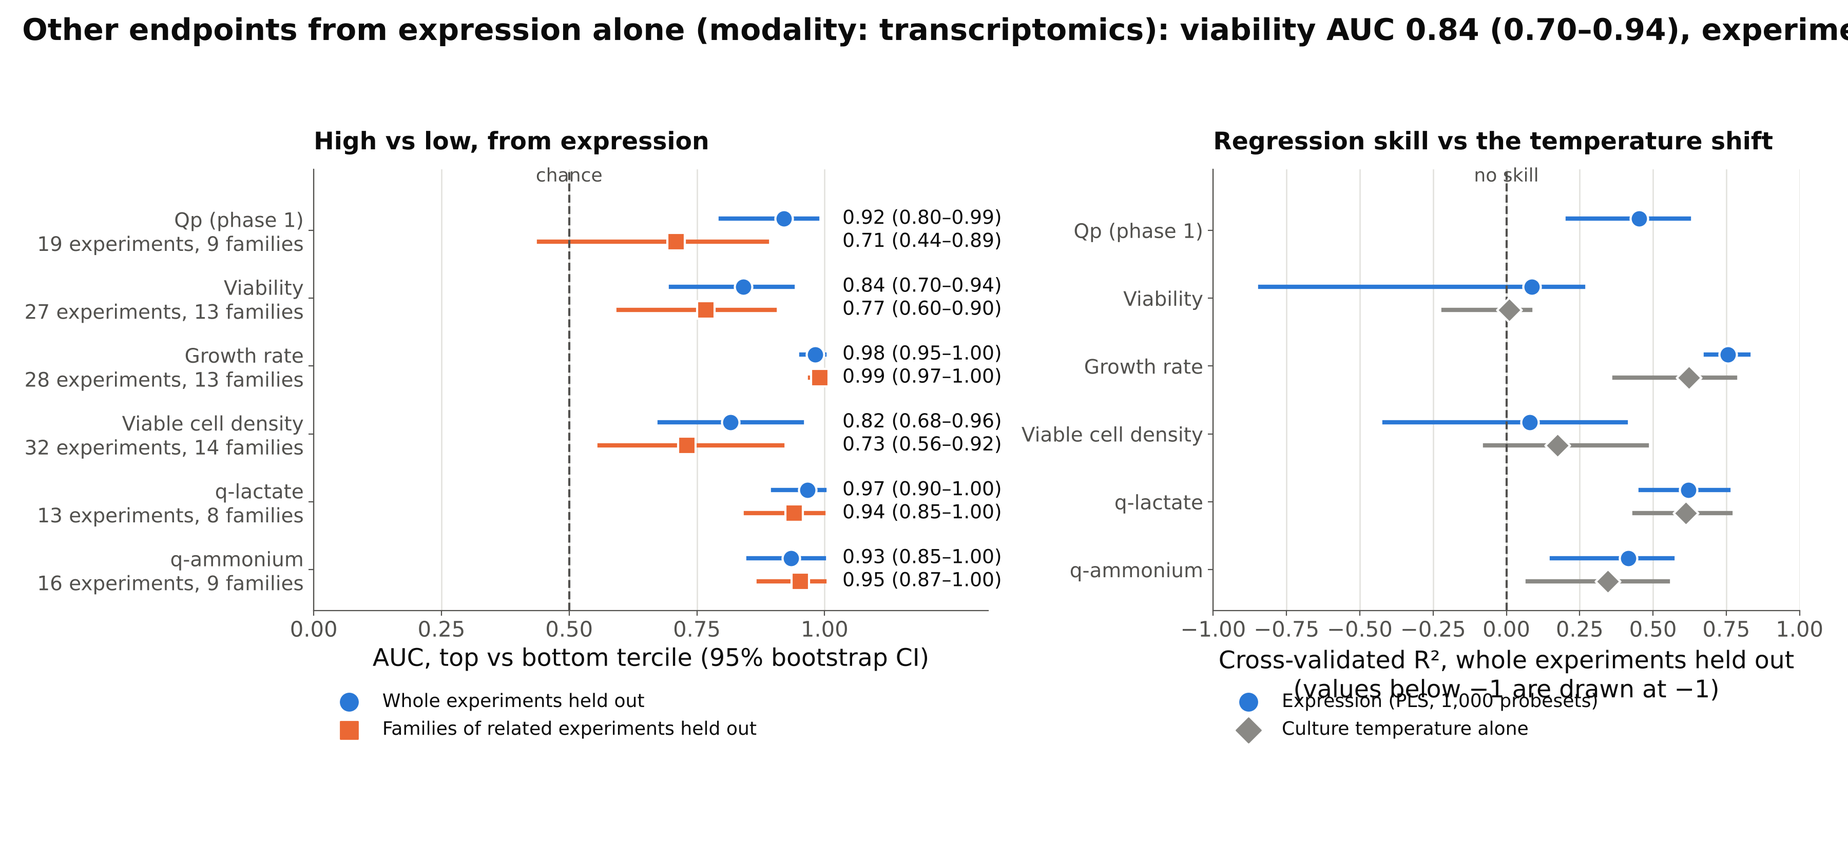
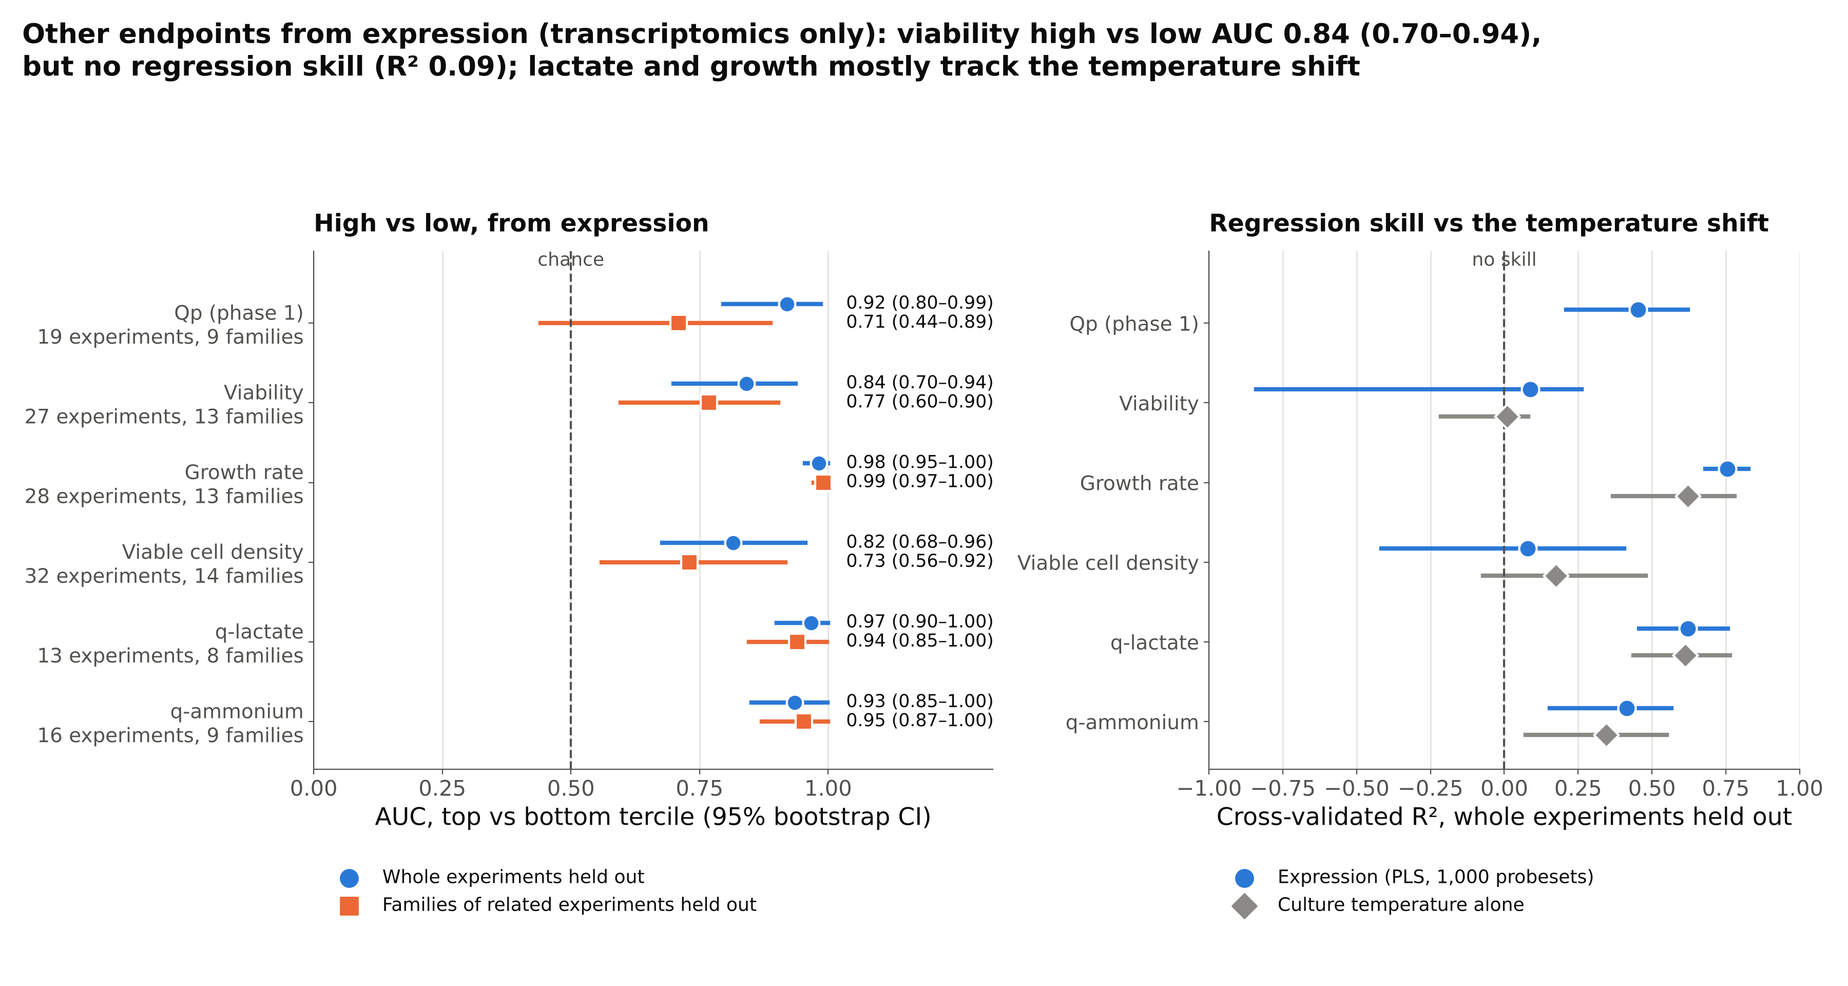
REPORT_V2 draft, run_v2 orchestrator, requirements
Claude-Session: https://claude.ai/code/session_01LY7Te5Uv5rJv5aH5gXDEKW

diff --git a/src/figures_v2.py b/src/figures_v2.py
@@ -131,7 +131,7 @@ def fig5():
     ax.set_xlim(0.25, 0.75)
     ax.invert_yaxis()
     ax.grid(axis="y", visible=False)
-    ax.set_xlabel("AUC for validated targets\n(grey: 95% range of random gene sets)")
+    ax.set_xlabel("AUC for validated targets\n(grey: 95% range, random sets)")
     ax.set_title("Recovery vs chance", fontsize=17)
     cov = e["route_a_coverage"]
     fig.suptitle(f"Knockout recovery is at chance: {k['hits_in_top_k']} of {k['n_positives']} testable validated targets in the top 100 "
@@ -150,7 +150,7 @@ def fig5():
 def fig6():
     m = pd.read_csv(R / "metrics_endpoints.csv")
     eps = ["Viability", "Growth rate", "Viable cell density", "q-lactate", "q-ammonium"]
-    fig, axes = plt.subplots(1, 2, figsize=(18, 8.4), gridspec_kw={"width_ratios": [1.15, 1]})
+    fig, axes = plt.subplots(1, 2, figsize=(18, 9.6), gridspec_kw={"width_ratios": [1.15, 1]})
     ax = axes[0]
     rows = [("Qp (phase 1)", _m1("full_classification", "all_labeled_terciles", "leave_one_experiment_out", "raw", "logit", "auc"),
              _m1("leakage", "all_labeled_terciles", "leave_one_expression_cluster_out", "raw", "logit", "auc"), 19, 9)]
@@ -159,13 +159,23 @@ def fig6():
         b = _ep(ep, "leave_one_expression_cluster_out", "raw", "logit", "auc")
         rows.append((ep, a[:3], b[:3], a[4], b[4]))
     y = np.arange(len(rows))
+    temp = {}
+    has_temp = ((m.encoder == "temperature only") & (m.model == "logit")).any()
+    if has_temp:
+        for ep in eps:
+            temp[ep] = _ep(ep, "leave_one_experiment_out", "temperature only", "logit", "auc")[:3]
     for i, (lab, a, b, na, nb) in enumerate(rows):
-        for (v, lo, hi), off, col, mk in [(a, -0.17, BLUE, "o"), (b, 0.17, ORANGE, "s")]:
+        marks = [(a, -0.24, BLUE, "o"), (b, 0.0, ORANGE, "s")]
+        if lab in temp:
+            marks.append((temp[lab], 0.24, NEUTRAL, "D"))
+        for (v, lo, hi), off, col, mk in marks:
             ax.plot([lo, hi], [i + off, i + off], color=col, lw=3, zorder=2)
-            ax.scatter([v], [i + off], s=150, color=col, marker=mk, edgecolor=SURFACE, linewidth=1.5, zorder=3)
-            ax.text(1.035, i + off, f"{v:.2f} ({lo:.2f}–{hi:.2f})", va="center", fontsize=13.5, color=INK)
+            ax.scatter([v], [i + off], s=130, color=col, marker=mk, edgecolor=SURFACE, linewidth=1.5, zorder=3)
+            ax.text(1.035, i + off, f"{v:.2f} ({lo:.2f}–{hi:.2f})", va="center", fontsize=12.5, color=INK)
     ax.scatter([], [], s=150, color=BLUE, marker="o", label="Whole experiments held out")
     ax.scatter([], [], s=150, color=ORANGE, marker="s", label="Families of related experiments held out")
+    if has_temp:
+        ax.scatter([], [], s=130, color=NEUTRAL, marker="D", label="Culture temperature alone, experiments held out")
     ax.axvline(0.5, color=INK2, ls="--", lw=1.5)
     ax.text(0.5, -0.72, "chance", ha="center", fontsize=13, color=INK2)
     ax.set_yticks(y)
@@ -177,7 +187,7 @@ def fig6():
     ax.grid(axis="y", visible=False)
     ax.set_xlabel("AUC, top vs bottom tercile (95% bootstrap CI)")
     ax.set_title("High vs low, from expression", fontsize=17)
-    ax.legend(loc="lower left", fontsize=13, bbox_to_anchor=(0.0, -0.33), ncol=1)
+    ax.legend(loc="upper left", fontsize=13, bbox_to_anchor=(0.0, -0.16), ncol=1)
 
     ax = axes[1]
     rows2 = []
@@ -203,13 +213,15 @@ def fig6():
     ax.set_ylim(-0.9, len(rows2) - 0.4)
     ax.invert_yaxis()
     ax.grid(axis="y", visible=False)
-    ax.set_xlabel("Cross-validated R², whole experiments held out\n(values below −1 are drawn at −1)")
+    ax.set_xlabel("Cross-validated R², whole experiments held out")
     ax.set_title("Regression skill vs the temperature shift", fontsize=17)
-    ax.legend(loc="lower left", fontsize=13, bbox_to_anchor=(0.0, -0.33))
+    ax.legend(loc="upper left", fontsize=13, bbox_to_anchor=(0.0, -0.16))
     v = _ep("Viability", "leave_one_experiment_out", "raw", "logit", "auc")
-    fig.suptitle(f"Other endpoints from expression alone (modality: transcriptomics): viability AUC {v[0]:.2f} "
-                 f"({v[1]:.2f}–{v[2]:.2f}), experiments held out", x=0.012, ha="left", fontweight="bold")
-    fig.tight_layout(rect=(0, 0.02, 1, 0.94))
+    vr = _ep("Viability", "leave_one_experiment_out", "raw", "pls", "r2_cv")
+    fig.suptitle(f"Other endpoints from expression (transcriptomics only): viability high vs low AUC {v[0]:.2f} "
+                 f"({v[1]:.2f}–{v[2]:.2f}),\nbut no regression skill (R² {vr[0]:.2f}); lactate and growth mostly track the temperature shift",
+                 x=0.012, ha="left", fontweight="bold", fontsize=19)
+    fig.tight_layout(rect=(0, 0.0, 1, 0.9))
     fig.savefig(F / "fig6_endpoints.png", dpi=200)
     plt.close(fig)
 

diff --git a/src/run_v2.py b/src/run_v2.py
@@ -1,0 +1,45 @@
+"""Phase 2, one command: python src/run_v2.py
+
+Needs the phase-1 downloads (python cho_poc.py --download) and phase-1 results
+(committed in results/). Stages, in order:
+  1. P1  Yao 2021 Table S3 pathway-recovery test            (src/yao.py)
+  2. P2  knockout rankings, then scoring against literature (src/knockout.py, src/knockout_eval.py)
+  3. P3  other endpoints on GSE30321                         (src/endpoints.py; ~20 min on 4 cores)
+  4. P4  cross-modality alignment                            (src/alignment.py)
+  5. P5  culture-format contrast                             (src/scale_format.py)
+  6. metrics_v2.csv and figures
+Fetches what it needs into raw/ (git-ignored).
+"""
+from __future__ import annotations
+
+import sys
+import time
+from pathlib import Path
+
+ROOT = Path(__file__).resolve().parent.parent
+sys.path.insert(0, str(ROOT))
+sys.path.insert(0, str(ROOT / "src"))
+
+
+def main(quick=False):
+    import alignment
+    import assemble_v2
+    import endpoints
+    import figures_v2
+    import knockout
+    import knockout_eval
+    import scale_format
+    import yao
+
+    for name, fn in [("P1 Yao pathway recovery", yao.main), ("P2 knockout freeze", knockout.freeze),
+                     ("P2 knockout evaluation", knockout_eval.main), ("P3 endpoints", lambda: endpoints.main(quick=quick)),
+                     ("P4 alignment", alignment.main), ("P5 culture format", scale_format.main),
+                     ("metrics_v2", assemble_v2.main), ("figures", figures_v2.make_all)]:
+        t = time.time()
+        print(f"=== {name}")
+        fn()
+        print(f"=== {name} done in {time.time() - t:.0f}s")
+
+
+if __name__ == "__main__":
+    main(quick="--quick" in sys.argv)

diff --git a/REPORT_V2.md b/REPORT_V2.md
@@ -1,0 +1,225 @@
+# Phase 2 — multi-modal extension and blinded recovery tests
+
+This extends `REPORT.md` (phase 1, Qp from transcriptomics on GSE30321). Every number here is in
+`results/metrics_v2.csv` or the file named beside it, and is regenerated by `python src/run_v2.py`.
+Intervals are 95% cluster-bootstrap intervals over the held-out unit unless stated otherwise.
+
+**Read `figures/fig0_architecture_status.png` first.** It is the architecture diagram with every box
+marked as tested with positive evidence, tested with a weak or null result, or requiring partner data.
+
+## Bottom line
+
+1. **No sample in any public dataset used here has more than one modality with an outcome.** Every
+   metric below belongs to one modality. Nothing in this work is a fused multi-omic prediction.
+2. **Two boxes have positive predictive evidence, both from transcriptomics with whole experiments
+   held out:** high vs low Qp (AUC 0.92, 0.80–0.99; phase 1) and high vs low viability
+   (AUC 0.84, 0.70–0.94).
+3. **The BMS metabolomics paper (Yao et al. 2021) published no per-clone data.** The cross-library
+   prediction could not be run. On the published summary statistics, the pre-registered pathway
+   ranking recovers the TCA cycle (rank 6 of 53, p = 0.02) but places alanine/aspartate/glutamate
+   metabolism only 15th; the joint test gives p = 0.06.
+4. **Knockout ranking recovers validated targets at chance** (AUC 0.50; 2 of 14 testable targets in
+   the top 100, p = 0.19). The FBA route is uninformative.
+5. **The pre-registered pathway-alignment test between transcripts and proteins is null**
+   (ρ = 0.16, p = 0.13). Genes do agree weakly across the two modalities (ρ = 0.18, p < 0.0001),
+   and pathway-level agreement appears in a sensitivity run without the temperature shift (ρ = 0.34).
+6. **Latent dynamics, glycans, scale risk and any fused prediction require partner data.**
+
+## What each box of the architecture can and cannot claim
+
+| Box | Status | Evidence (modality; holdout) | Requires partner data for |
+|---|---|---|---|
+| Transcriptomics input | Positive | High vs low Qp AUC 0.92 (0.80–0.99) (transcriptomics; whole experiments held out) | A modern genome-wide platform; this array has 3,592 probesets |
+| Proteomics input | Weak | Gene-level agreement with transcripts ρ = 0.18 on a growth-phase contrast (unpaired; no model) | Any outcome-labeled proteomics |
+| Metabolomics input | Weak | TCA cycle rank 6 of 53 on published correlations (metabolomics; no model) | Per-clone metabolite tables, both libraries |
+| Process settings | Weak | Four logged variables alone: RMSE 18.3 vs 14.6 no-skill (whole experiments held out) | Media, feed, clone, scale |
+| Pathway-constrained encoder | Weak | Fixed pathway average RMSE 12.6 vs 10.8 for raw genes; pathway alignment test null | A trained encoder on full-coverage data |
+| Culture state `z` | Weak | Self-supervised `z` no better than training from scratch (phase 1) | A larger unlabeled corpus; iMEMORY initialisation was not tested |
+| Δ branch | Weak | Golgi vesicle transport rank 5 of 48 (transcriptomics); TCA cycle rank 6 of 53 (metabolomics) | Per-sample data to run Δ on a learned `z` |
+| Latent dynamics | Not tested | — | Time-resolved omics with day labels |
+| Titer / qP head | Positive | AUC 0.92 (0.80–0.99); RMSE 10.8 vs 14.6 no-skill; published 4.44 not beaten | Unseen cell lines; families held out give AUC 0.71 (0.44–0.89) |
+| Viability head | Positive for high vs low only | AUC 0.84 (0.70–0.94); regression R² 0.09 | Finer prediction than high vs low |
+| Glycan head | Not tested | — | Glycan profiles with omics on the same clones |
+| Scale-risk head | Not tested | A format contrast only (flask vs bioreactor): hypoxia rank 17 of 50 | Paired small- and large-scale runs |
+| Ranked fixes | Null | Knockout recovery AUC 0.50 | Perturbation data from the partner's own lines |
+
+## P1. Metabolomics and qP on the BMS paper (Yao et al. 2021, *Metabolites* 11:823)
+
+**What is public.** The data availability statement reads "Not applicable". The supplement is one
+PDF. It holds Table S3 (Pearson correlation of each annotated metabolite with qP and with peak VCD
+across the 12 clones of library 1), the list of 34 targeted metabolites without values, and figures.
+There is no per-clone metabolite table for either library.
+
+**Cross-library prediction (library 1 → library 2): not run.** It needs per-clone values. The only
+per-clone values shown are scatter plots of the two metabolites the authors selected after their own
+analysis; a "prediction" from those would be circular. The heatmap has about two pixels per
+metabolite row and was not digitised. No data were fabricated or guessed.
+
+**Pathway recovery on Table S3 (pre-registered before computing; `figures/fig4_metabolomics_qp.png`).**
+92 metabolites, all mapped to KEGG; 53 KEGG metabolic pathways with at least three measured members.
+Statistic: mean Fisher-z correlation with qP inside the pathway minus outside it. Null: 10,000
+permutations of metabolite labels.
+
+| Target pathway | Rank of 53 (Δ statistic) | Permutation p | Rank by the authors' own over-representation statistic |
+|---|---|---|---|
+| Citrate cycle (TCA cycle) | 6 | 0.020 | 1 |
+| Alanine, aspartate and glutamate metabolism | 15 | 0.050 | 7 |
+| Both: mean rank 10.5 vs 27.2 expected | — | 0.061 | — |
+
+Ranks 1–5 went to pathways with three or four measured metabolites each (terpenoid backbone
+biosynthesis, butanoate metabolism, C5-branched dibasic acid metabolism, nicotinate metabolism,
+glutathione metabolism).
+
+**Reading.** The TCA cycle is recovered. Alanine/aspartate/glutamate metabolism is in the top third,
+not at the top, and the joint test does not reach 0.05. The ranking has little contrast to work
+with: 97% of the metabolites correlate positively with qP. This is a concordance check on the
+authors' own summary statistics, made by someone who had read their conclusion; it is not an
+independent discovery and not a prediction.
+
+A post hoc run restricted to pathways annotated in Chinese hamster gives ranks 6 and 13 of 38 and
+joint p = 0.10. It is not used to rescue the result.
+
+## P2. Knockout ranking with blinded literature recovery (`figures/fig5_knockout_recovery.png`)
+
+**Protocol.** Two rankings were built and committed (`de3fe41`) before any ground truth was opened.
+
+- *Route A, data-driven (transcriptomics, GSE30321):* gene-level Δ between the top and bottom Qp
+  quartiles, within experiment. Most negative Δ = knockout candidate; most positive = overexpression
+  candidate. 1,707 genes.
+- *Route B, mechanistic (iCHO1766, COBRApy FBA):* single-gene deletion for all 1,766 model genes;
+  growth and IgG-synthesis capacity relative to wild type.
+
+**Ground truth, collected afterwards.** Schulz et al. 2026 (*mAbs*; systematic review of 164
+publications), supplementary sheet B: 60 genes whose knockout or knockdown raised titer or qP, 153
+genes whose overexpression did. From Marzluf et al. 2026 only the genes named in the text could be
+used, because the 36 retained knockouts are not published by name.
+
+**Coverage.** 14 of the 60 validated knockout targets are on the array; 17 are in the model. BAX,
+BAK1, BOK, BCKDHA/B, COSMC, NEU1 and NEU3 are not on the array. BOK is in neither, so the named true
+negative could not be tested.
+
+| Test | Result | Chance | p |
+|---|---|---|---|
+| Route A, knockout end: AUC for 14 validated targets | 0.50 | 0.50 (null range 0.35–0.65) | 0.50 |
+| Route A, knockout end: validated targets in the top 100 | 2 (GLUL rank 29, DAG1 rank 30) | 0.8 | 0.19 |
+| Route A, overexpression end: AUC for 37 validated targets | 0.39 | 0.50 (0.40–0.59) | 0.99 |
+| Route A with the between-experiment Δ: validated targets in the top 100 | 0 | 0.8 | 1.00 |
+| Route B, trade-off score: AUC for 17 validated targets | 0.49 | 0.50 (0.49–0.55) | 1.00 |
+| Route B, tolerance call: validated targets called tolerated | 94% | 93% of all genes | — |
+
+Named genes that could be ranked by Route A: GLUL 29, DAG1 30, LDHA 182, NID1 192, B4GALT1 367,
+NEU2 856, FUT8 1,197, MYC 1,700 (of 1,707). With k = 50 the same two hits give p = 0.06.
+
+**Reading.** Recovery is at chance on both routes. With 14 testable positives the test could only
+have detected a strong effect, so this is no evidence of recovery, not proof that the approach
+cannot work. FBA calls GAPDH, ALDOA, PGK1 and LDHA knockouts harmless, where the Marzluf screen found
+them lethal or selected against; the model's isozyme rules absorb single deletions. One call matches
+known biology: deleting FUT8 removes the model's capacity to make its core-fucosylated IgG.
+
+## P3. Other endpoints on GSE30321 (`figures/fig6_endpoints.png`)
+
+Modality: transcriptomics. Pipeline unchanged from phase 1. PLS and logistic regression on 1,000
+probesets; top vs bottom tercile for AUC. "Temperature only" is a model given the culture
+temperature and nothing else, under the same split.
+
+| Endpoint | Arrays / experiments | AUC, experiments held out | AUC, families held out | R², experiments held out | R², temperature only |
+|---|---|---|---|---|---|
+| Viability | 235 / 28 | 0.84 (0.70–0.94) | 0.77 (0.60–0.90) | 0.09 (−0.84–0.26) | 0.01 |
+| Growth rate | 223 / 29 | 0.98 (0.95–1.00) | 0.99 (0.97–1.00) | 0.76 (0.68–0.83) | 0.62 |
+| Viable cell density | 270 / 33 | 0.82 (0.68–0.96) | 0.73 (0.56–0.92) | 0.08 (−0.42–0.41) | 0.17 |
+| q-lactate | 127 / 14 | 0.97 (0.90–1.00) | 0.94 (0.85–1.00) | 0.62 (0.46–0.76) | 0.61 |
+| q-ammonium | 143 / 16 | 0.93 (0.85–1.00) | 0.95 (0.87–1.00) | 0.42 (0.15–0.57) | 0.35 |
+
+TEMP_AUC_SENTENCE
+
+Culture-grouped numbers, for contrast only: viability R² 0.77, density 0.77, against 0.09 and 0.08
+with experiments held out. The leak found in phase 1 is larger for these endpoints than it was for Qp.
+
+**Reading.**
+
+- **Viability** can be separated into high and low from expression on unseen experiments, and the
+  culture temperature alone cannot do it. A number cannot be predicted: R² is 0.09.
+- **Growth rate and q-lactate** are predicted well, but temperature alone gets most of the way
+  (R² 0.62 and 0.61). Expression adds a little for growth rate and nothing for q-lactate.
+- **Viable cell density** behaves like viability: some high-vs-low separation, no regression skill.
+- The pathway encoder is at or below raw genes on every endpoint (`results/metrics_endpoints.csv`).
+
+## P4. Cross-modality alignment on a pathway basis (`figures/fig7_modality_alignment.png`)
+
+Design pre-registered in commit `83b8d9e`. Each contrast is computed inside one modality; the test
+is whether the pathway-level contrast vectors correlate.
+
+**Leg 1, growth phase: transcriptomics (GSE30321) vs proteomics (PRIDE PXD053511).** Proteomics:
+4 exponential vs 4 stationary samples, 4,207 proteins quantified, 87% mapped to a gene, 3,303 genes.
+Transcriptomics: within-experiment Δ for growth rate. 557 genes are measured in both.
+
+| Comparison | n | Spearman | p |
+|---|---|---|---|
+| **Pre-registered primary**, iCHO1766 subsystems | 18 | 0.20 | 0.24 |
+| **Pre-registered primary**, KEGG hamster pathways | 266 | 0.16 | 0.13 |
+| Gene level, no pathway basis | 557 | 0.18 | < 0.0001 |
+| Sensitivity (37 °C arrays only), iCHO1766 subsystems | 18 | 0.36 | 0.08 |
+| Sensitivity (37 °C arrays only), KEGG hamster pathways | 266 | 0.34 | < 0.0001 |
+
+**Leg 2, Qp association: transcriptomics vs metabolomics (Yao Table S3).** Spearman −0.12 over 10
+iCHO1766 subsystems (p = 0.63) and −0.08 over 40 KEGG pathways (p = 0.66). Null.
+
+**Reading.** The pre-registered pathway test is a null on both bases. Transcript and protein
+contrasts do agree, weakly, gene by gene, and the pathway projection did not strengthen that. The
+sensitivity run removes the main design mismatch (slow growth in GSE30321 mostly coincides with the
+shift to 31 °C; the proteomics study has no shift) and then shows clear pathway-level agreement on
+KEGG. It was registered as a sensitivity run, with that reason, and is reported as one. The iCHO1766
+basis could not be tested properly: it covers metabolism only, the array carries 1,707 genes, and
+only 18 subsystems reach five genes in both modalities.
+
+Not run: the hamster proteome atlas (no contrast shared with another dataset here) and the one
+Chinese hamster study on Metabolomics Workbench (no time).
+
+## P5. Scale risk
+
+- GSE30321 deposits no scale or format variable, so a small-to-large degradation test is impossible.
+- Gao et al. 2016 (hypoxia on scale-up to 5,000 L) is closed access with no deposited data found.
+- **Substitute, a format contrast and not a scale contrast:** GSE104787, one IgG-producing line in
+  3 shake flasks and 3 bioreactors, 18 arrays. Pre-registered question: does HALLMARK_HYPOXIA lead
+  the bioreactor-vs-flask Δ? It ranks **17 of 50** (p = 0.012 against random gene sets, in a
+  contrast where 16 of 50 sets pass 0.05). Proliferation programmes lead (E2F targets, MYC targets,
+  G2M checkpoint). Sampling day explains a median 24.6% of expression variance and culture system
+  2.1%, which matches the deposit's own summary.
+- The scale-risk box stays "requires partner data".
+
+## P6. Glycans
+
+Stopped inside the 90-minute timebox. GEO and Europe PMC searches found no public CHO dataset with
+glycan profiles and omics on the same clones at a usable n. The box is "requires partner data".
+
+## Claims ledger (extends the ledger in `REPORT.md`)
+
+| Claim | Evidence | What this does NOT show |
+|---|---|---|
+| High vs low viability can be told from expression in an unseen experiment. | Transcriptomics; leave-one-experiment-out AUC 0.84 (0.70–0.94), 28 experiments; families held out 0.77 (0.60–0.90). | That viability can be predicted as a number (R² 0.09). That it works on a new cell line. Experiment blocks for some of these arrays rest on my reading of the deposit order. |
+| Growth rate and q-lactate are predictable from expression. | Leave-one-experiment-out R² 0.76 and 0.62. | That expression is needed: culture temperature alone gives R² 0.62 and 0.61. |
+| The Δ construct recovers the TCA cycle from BMS's published metabolomics. | Rank 6 of 53, p = 0.020, pre-registered; rank 1 by the authors' own statistic. | Recovery of both published pathways (the other ranks 15; joint p = 0.061). Independence: the input is the authors' own summary statistics and I knew their conclusion. Any prediction on BMS data. |
+| Cross-library qP prediction on the BMS data was not possible. | Data availability "Not applicable"; no per-clone table in the supplement. | That it would fail or succeed. It is untested. |
+| The knockout ranking does not recover validated targets. | AUC 0.50 (p = 0.50); 2 of 14 in the top 100 (p = 0.19); FBA AUC 0.49. Rankings frozen before ground truth. | That the approach cannot work. Only 14 of 60 validated targets are on the array; apoptosis and glycosylation targets are outside what a Qp expression contrast or steady-state FBA can see. |
+| Transcript and protein growth-phase contrasts agree weakly at gene level. | Spearman 0.18, 557 genes, p < 0.0001; unpaired datasets from different labs. | That a pathway basis creates or improves the agreement: the pre-registered pathway test is null (ρ = 0.16, p = 0.13). That the modalities can be fused for prediction; no sample has both. |
+| Pathway-level agreement appears when the temperature confound is removed. | 37 °C arrays only: KEGG ρ = 0.34, p < 0.0001. | A confirmatory result. It is a sensitivity run on 69 arrays; iCHO1766 on the same run gives p = 0.08. |
+| The iCHO1766 basis could not be evaluated on these data. | 18 testable subsystems for proteins vs transcripts; 10 for metabolites vs transcripts. | That iCHO1766 is a poor basis. The array is too small to say. |
+| Hypoxia does not lead the flask-vs-bioreactor contrast. | GSE104787: HALLMARK_HYPOXIA rank 17 of 50. | Anything about scale-up. This is a format contrast in one cell line with 6 cultures. It neither supports nor contradicts Gao et al. 2016. |
+| Glycans, latent dynamics and scale risk were not tested. | No usable public data found. | That the platform cannot do them. |
+
+## What this work does not demonstrate
+
+It does not demonstrate multi-omic fusion: every metric comes from a single modality, and the one
+test of a shared pathway space gave a null on its pre-registered form. It does not demonstrate
+prediction on BMS's own data, because the per-clone data behind Yao et al. 2021 are not public. It
+does not demonstrate that the Δ branch can rank useful interventions: knockout recovery is at chance.
+It does not demonstrate latent dynamics, glycan prediction or scale-risk prediction, none of which
+could be tested. The two positive boxes rest on one 2011 microarray dataset from one group of labs,
+with experiment and culture identifiers that I reconstructed. For viability, growth rate and
+q-lactate, part or most of the signal is the temperature shift.
+
+## Reproduce
+
+```bash
+pip install -r requirements.txt && python cho_poc.py --download && python src/run_v2.py
+```
